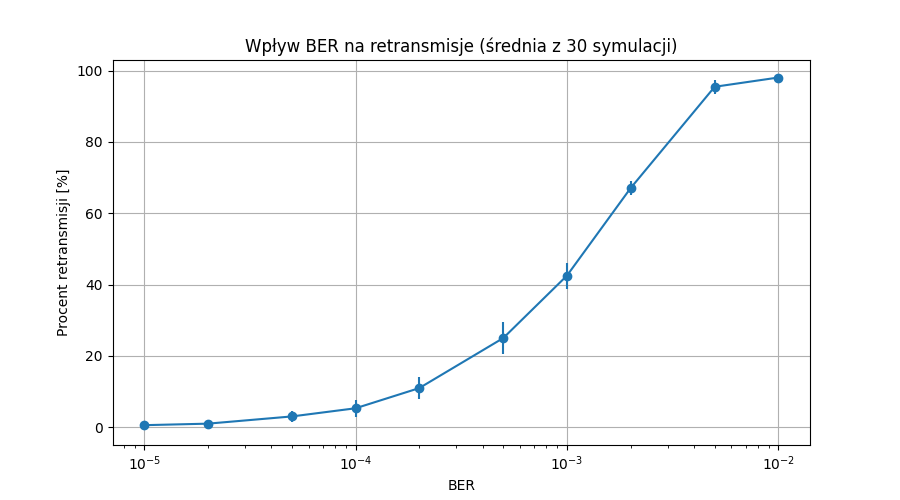
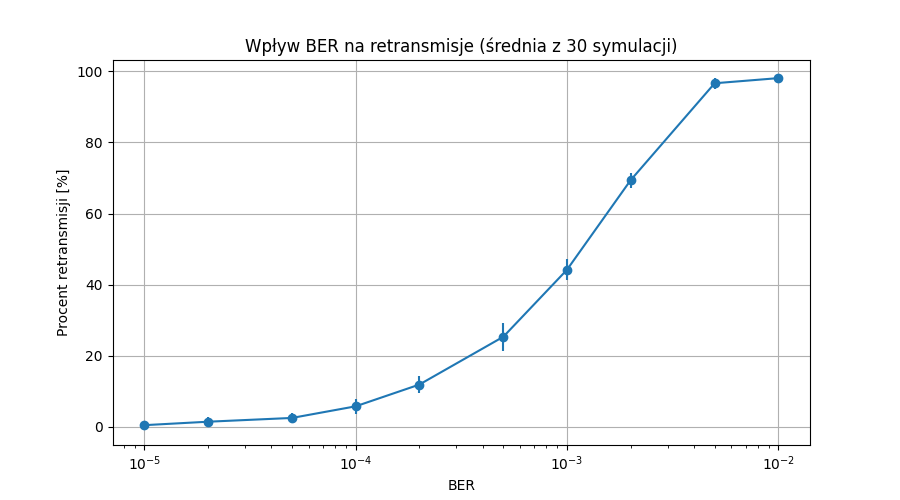
v3

diff --git a/badania_symulacyjne.py b/badania_symulacyjne.py
@@ -6,7 +6,7 @@ from Odbiornik import Odbiornik
 from Kanal import BSCKanal
 
 # PARAMETRY
-MTU = 50
+MTU = 54
 ROZMIAR_PLIKU = 5000
 DANE = b"A" * ROZMIAR_PLIKU
 
@@ -39,7 +39,7 @@ def jedna_symulacja(p_error):
     return procent_retransmisji, nadajnik.attempts_history
 
 
-# BADANIE 1: BER → ŚREDNIA RETRANSMISJI
+# BER ŚREDNIA RETRANSMISJI
 def badanie_ber():
     p_errors = [1e-5, 2e-5, 5e-5, 1e-4, 2e-4, 5e-4, 1e-3, 2e-3, 5e-3, 1e-2]
 
@@ -70,9 +70,8 @@ def badanie_ber():
     plt.show()
 
 
-# ==========================================
-# BADANIE 2: HISTOGRAM LICZBY PRÓB
-# ==========================================
+
+#HISTOGRAM LICZBY PRÓB
 def histogram():
     BER_TEST = 0.002
     wszystkie_proby = []
@@ -93,11 +92,7 @@ def histogram():
     plt.grid(True)
     plt.savefig("histogram.png")
     plt.show()
-
-
-# ==========================================
-# BADANIE 3: WYZNACZENIE LIMITU RETRANSMISJI
-# ==========================================
+#WYZNACZENIE LIMITU RETRANSMISJI
 def limit_retransmisji():
     BER_TEST = 0.002
     wszystkie = []
